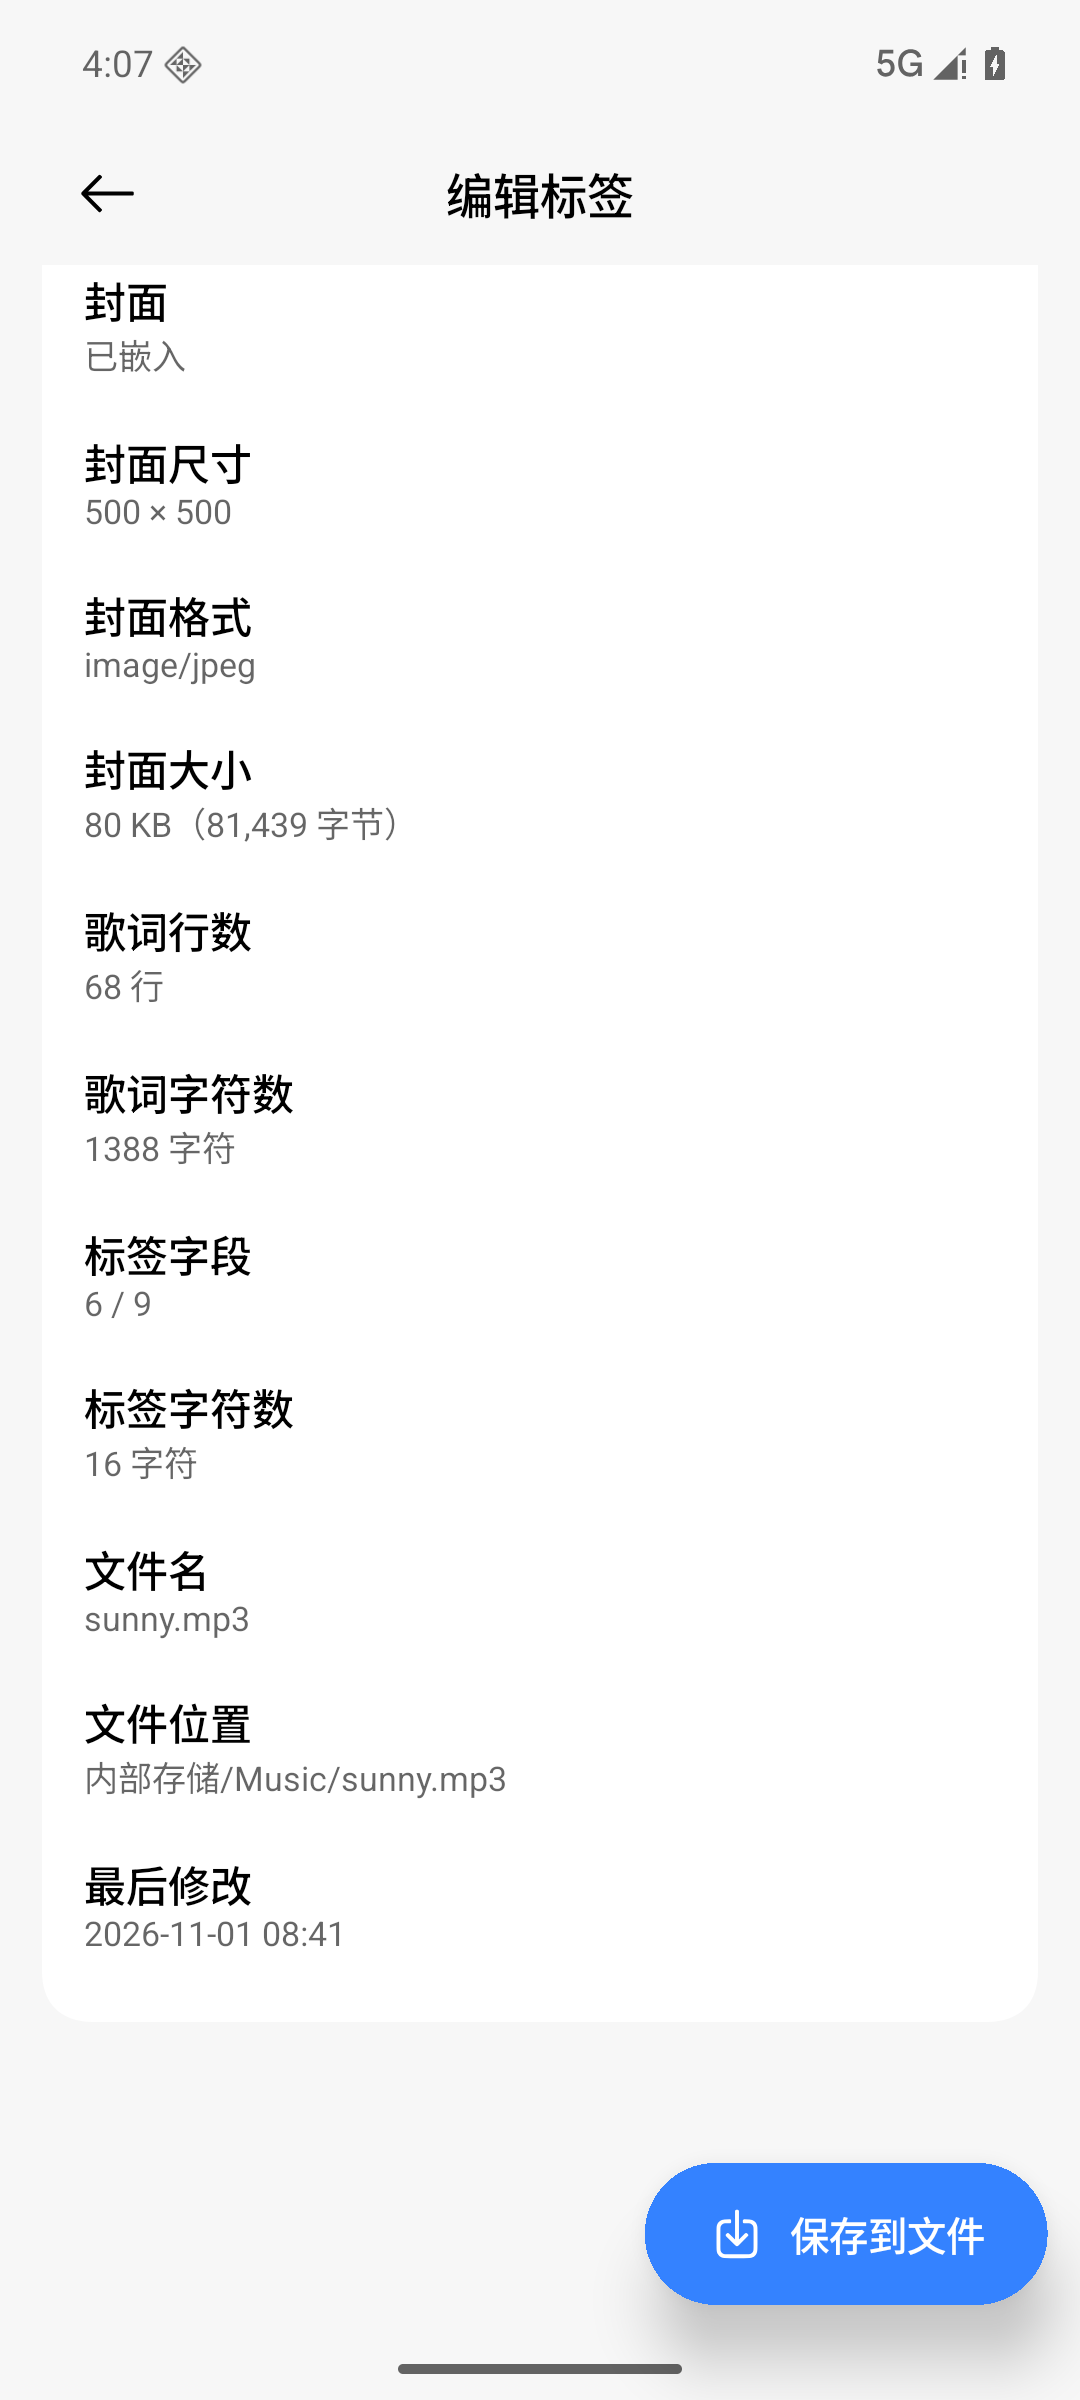
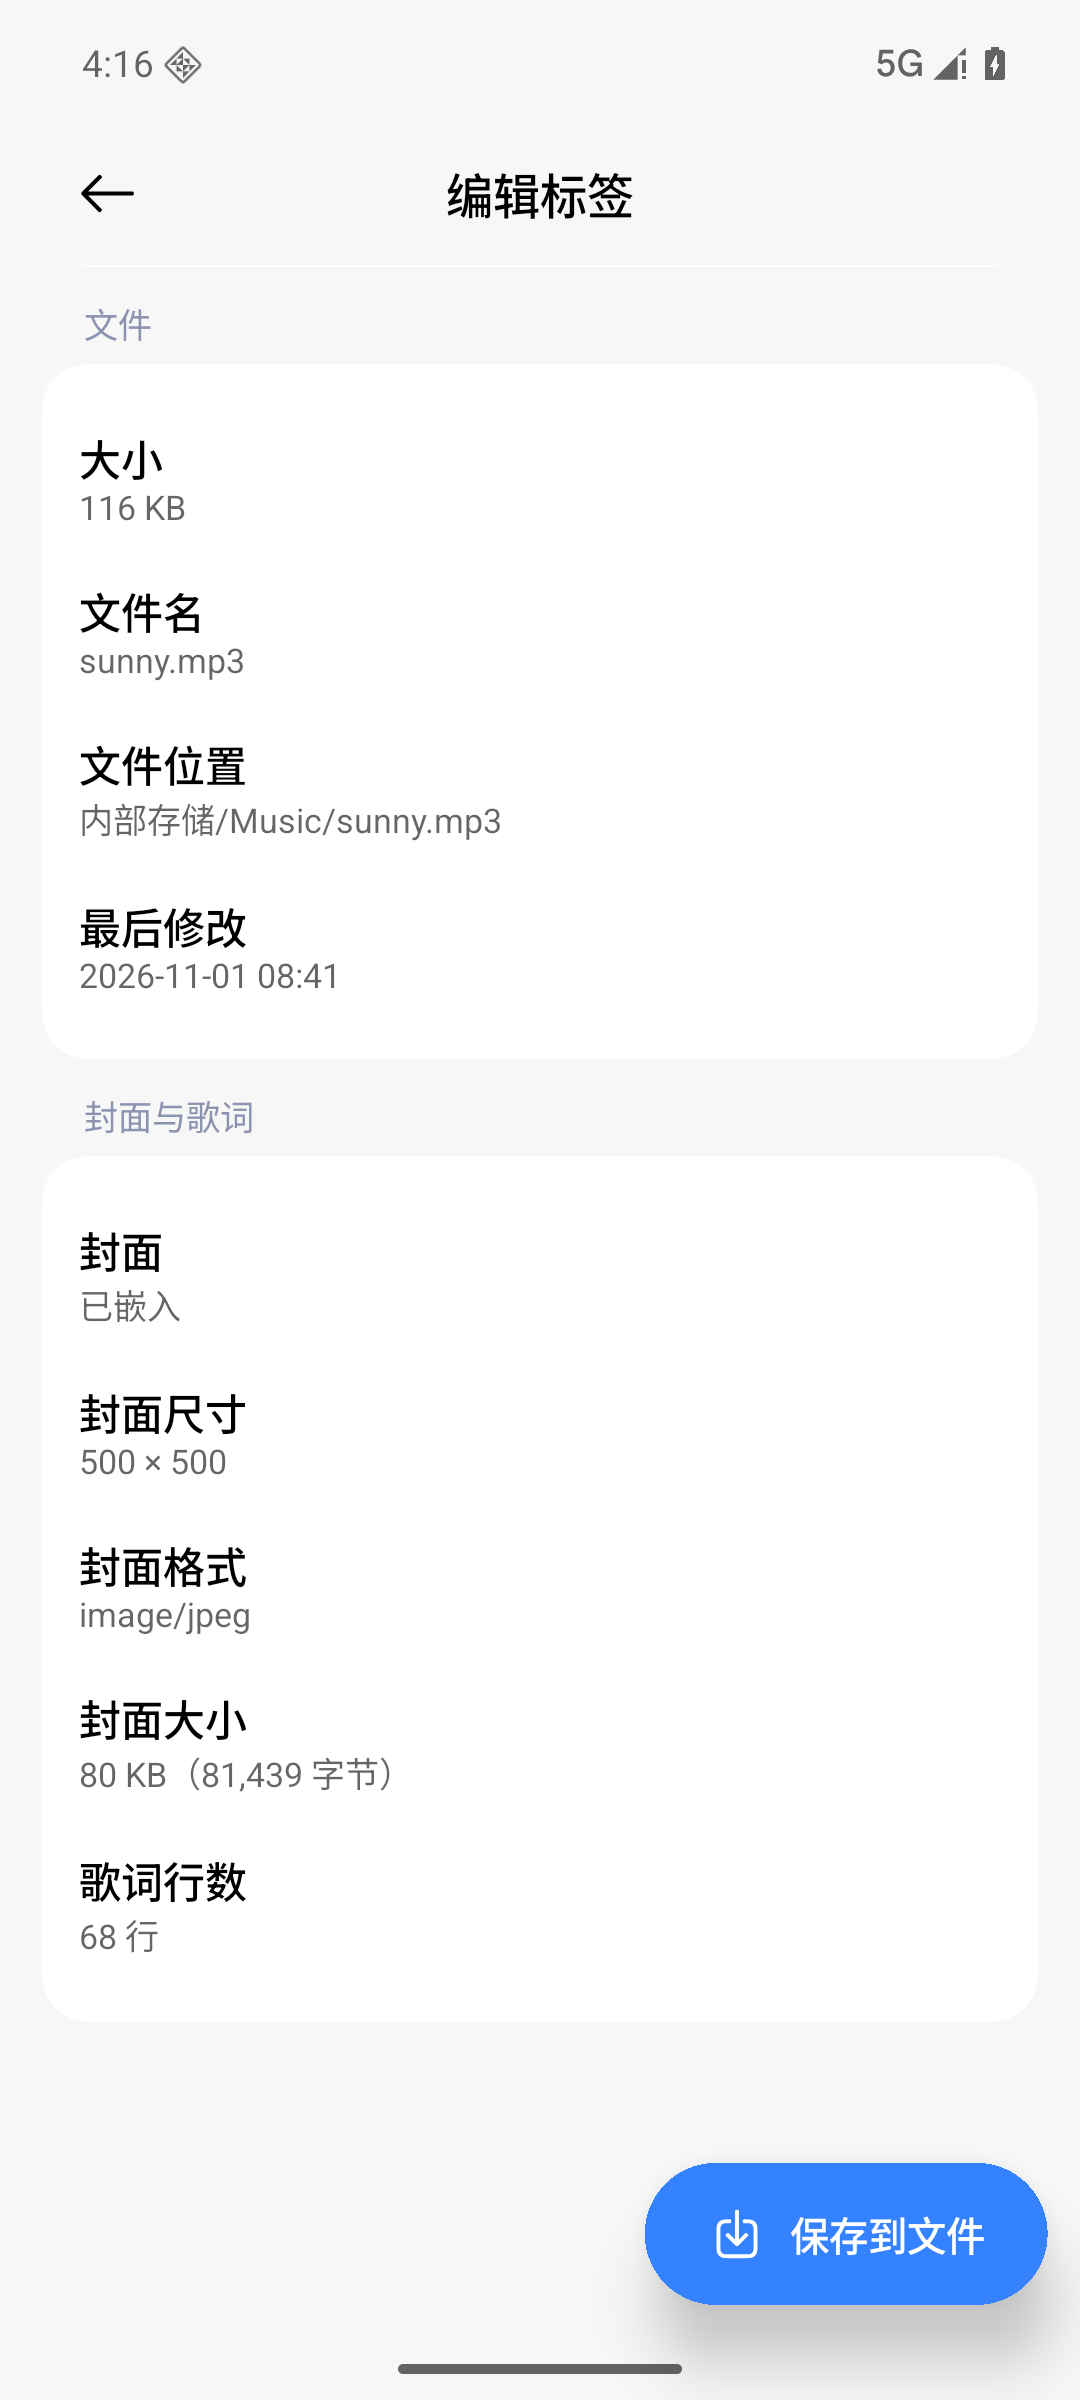
v1.2.3：打开匹配即自动搜索、文件信息精选分组、修复播放按钮误入编辑页
- openSearch 后自动以当前关键词搜索，无需手动点搜索
- 文件信息改为音频参数/文件/封面与歌词三组，保留 16 项有用数据
- 播放 chooser 排除 MainActivity，外部播放器直接打开
- 版本 1.2.3 / versionCode 6

diff --git a/app/src/main/java/com/musictag/app/ui/editor/EditorScreen.kt b/app/src/main/java/com/musictag/app/ui/editor/EditorScreen.kt
@@ -1,4 +1,4 @@
-package com.musictag.app.ui.editor
+package com.musictag.app.ui.editor
 
 import android.graphics.Bitmap
 import android.net.Uri
@@ -325,70 +325,44 @@ fun EditorScreen(
                             }
 
                             else -> item(key = "fileinfo") {
-                                EditorTabCard {
-                                    InfoRow("格式", track.formatName ?: "未知")
-                                    InfoRow("扩展名", track.displayName.substringAfterLast('.', "").uppercase().ifBlank { "未知" })
-                                    InfoRow("时长", Formats.duration(track.durationMs))
-                                    InfoRow("时长（毫秒）", Formats.durationMillis(track.durationMs))
-                                    InfoRow("大小", Formats.fileSize(track.sizeBytes))
-                                    InfoRow("大小（字节）", Formats.fileSizeExact(track.sizeBytes))
-                                    InfoRow("比特率", track.bitrateKbps?.let { "$it kbps" } ?: "未知")
-                                    InfoRow("采样率", track.sampleRateHz?.let { "$it Hz" } ?: "未知")
-                                    InfoRow("声道", track.channels?.let { "$it 声道" } ?: "未知")
-                                    InfoRow("位深", track.bitDepth?.let { "$it bit" } ?: "未知")
-                                    InfoRow("编码", track.codecName ?: track.codecMime ?: "未知")
-                                    InfoRow("MIME 类型", track.mimeType ?: "未知")
-                                    InfoRow("封面", if (state.artwork != null) "已嵌入" else "无")
-                                    InfoRow(
-                                        "封面尺寸",
-                                        if (track.artworkWidth != null && track.artworkHeight != null) {
-                                            "${track.artworkWidth} × ${track.artworkHeight}"
-                                        } else {
-                                            "未知"
-                                        },
-                                    )
-                                    InfoRow("封面格式", track.artworkMime ?: "未知")
-                                    InfoRow(
-                                        "封面大小",
-                                        track.artworkBytes?.let {
-                                            "${Formats.fileSize(it.toLong())}（${Formats.fileSizeExact(it.toLong())}）"
-                                        } ?: "未知",
-                                    )
-                                    InfoRow("歌词行数", "${state.fields.lyrics.lineSequence().count { it.isNotBlank() }} 行")
-                                    InfoRow("歌词字符数", "${state.fields.lyrics.length} 字符")
-                                    InfoRow(
-                                        "标签字段",
-                                        "${listOf(
-                                            state.fields.title,
-                                            state.fields.artist,
-                                            state.fields.album,
-                                            state.fields.albumArtist,
-                                            state.fields.year,
-                                            state.fields.trackNumber,
-                                            state.fields.discNumber,
-                                            state.fields.genre,
-                                            state.fields.comment,
-                                        ).count { it.isNotBlank() }} / 9",
-                                    )
-                                    InfoRow(
-                                        "标签字符数",
-                                        "${
-                                            listOf(
-                                                state.fields.title,
-                                                state.fields.artist,
-                                                state.fields.album,
-                                                state.fields.albumArtist,
-                                                state.fields.year,
-                                                state.fields.trackNumber,
-                                                state.fields.discNumber,
-                                                state.fields.genre,
-                                                state.fields.comment,
-                                            ).sumOf { it.length }
-                                        } 字符",
-                                    )
-                                    InfoRow("文件名", track.displayName)
-                                    InfoRow("文件位置", track.location ?: "未知")
-                                    InfoRow("最后修改", Formats.dateTime(track.lastModified))
+                                Column(
+                                    modifier = Modifier.fillMaxWidth(),
+                                    verticalArrangement = Arrangement.spacedBy(12.dp),
+                                ) {
+                                    EditorSection(title = "音频参数") {
+                                        InfoRow("格式", track.formatName ?: "未知")
+                                        InfoRow("时长", Formats.duration(track.durationMs))
+                                        InfoRow("比特率", track.bitrateKbps?.let { "$it kbps" } ?: "未知")
+                                        InfoRow("采样率", track.sampleRateHz?.let { "$it Hz" } ?: "未知")
+                                        InfoRow("声道", track.channels?.let { "$it 声道" } ?: "未知")
+                                        InfoRow("位深", track.bitDepth?.let { "$it bit" } ?: "未知")
+                                        InfoRow("编码", track.codecName ?: track.codecMime ?: "未知")
+                                    }
+                                    EditorSection(title = "文件") {
+                                        InfoRow("大小", Formats.fileSize(track.sizeBytes))
+                                        InfoRow("文件名", track.displayName)
+                                        InfoRow("文件位置", track.location ?: "未知")
+                                        InfoRow("最后修改", Formats.dateTime(track.lastModified))
+                                    }
+                                    EditorSection(title = "封面与歌词") {
+                                        InfoRow("封面", if (state.artwork != null) "已嵌入" else "无")
+                                        InfoRow(
+                                            "封面尺寸",
+                                            if (track.artworkWidth != null && track.artworkHeight != null) {
+                                                "${track.artworkWidth} × ${track.artworkHeight}"
+                                            } else {
+                                                "未知"
+                                            },
+                                        )
+                                        InfoRow("封面格式", track.artworkMime ?: "未知")
+                                        InfoRow(
+                                            "封面大小",
+                                            track.artworkBytes?.let {
+                                                "${Formats.fileSize(it.toLong())}（${Formats.fileSizeExact(it.toLong())}）"
+                                            } ?: "未知",
+                                        )
+                                        InfoRow("歌词行数", "${state.fields.lyrics.lineSequence().count { it.isNotBlank() }} 行")
+                                    }
                                 }
                             }
                         }

diff --git a/app/src/main/java/com/musictag/app/ui/MusicTagApp.kt b/app/src/main/java/com/musictag/app/ui/MusicTagApp.kt
@@ -1,6 +1,7 @@
 package com.musictag.app.ui
 
 import android.content.ActivityNotFoundException
+import android.content.ComponentName
 import android.content.Intent
 import android.net.Uri
 import androidx.activity.compose.rememberLauncherForActivityResult
@@ -39,6 +40,7 @@ import androidx.lifecycle.viewmodel.compose.viewModel
 import androidx.lifecycle.viewmodel.initializer
 import androidx.lifecycle.viewmodel.viewModelFactory
 import com.musictag.app.AppContainer
+import com.musictag.app.MainActivity
 import com.musictag.app.data.model.TrackItem
 import com.musictag.app.ui.components.MiuixOverflowMenu
 import com.musictag.app.ui.editor.EditorScreen
@@ -102,7 +104,14 @@ fun MusicTagApp(
             addFlags(Intent.FLAG_GRANT_READ_URI_PERMISSION)
         }
         try {
-            context.startActivity(Intent.createChooser(viewIntent, "选择打开方式"))
+            val chooser = Intent.createChooser(viewIntent, "选择打开方式").apply {
+                // Never offer 音签 itself: ACTION_VIEW would just reopen this editor.
+                putExtra(
+                    Intent.EXTRA_EXCLUDE_COMPONENTS,
+                    arrayOf(ComponentName(context, MainActivity::class.java)),
+                )
+            }
+            context.startActivity(chooser)
         } catch (_: ActivityNotFoundException) {
             scope.launch { snackbarHostState.showSnackbar("没有找到可以播放该音频的应用") }
         }

diff --git a/app/src/main/java/com/musictag/app/ui/editor/EditorViewModel.kt b/app/src/main/java/com/musictag/app/ui/editor/EditorViewModel.kt
@@ -237,6 +237,11 @@ class EditorViewModel(private val container: AppContainer) : ViewModel() {
                 ),
             )
         }
+        // Opening the match sheet starts a search immediately with the prefilled
+        // keyword, so the user does not have to tap the search button.
+        if (_state.value.search.keyword.isNotBlank()) {
+            search()
+        }
     }
 
     fun closeSearch() {

diff --git a/docs/RELEASE_NOTES-v1.2.3.md b/docs/RELEASE_NOTES-v1.2.3.md
@@ -1,0 +1,39 @@
+# 音签 MusicTagger v1.2.3
+
+体验修复版本：**打开匹配即自动搜索、文件信息精选、播放按钮修复**。
+
+## 下载
+
+- `MusicTagger-v1.2.3.apk`（R8 压缩 + 资源裁剪，约 **1.5 MB**）
[1 lines of base64/hex data omitted]
+- 系统要求：Android 8.0（API 26）及以上；动态取色需 Android 12+
+
+## 更新内容
+
+- **打开即搜索**：点击右下角圆形搜索 FAB（或封面卡片的匹配入口）后，自动用当前
+  「歌曲名 / 歌手」关键词发起搜索并直接展示结果，无需再手动点「搜索」。
+  仍可修改关键词后手动重新搜索，或切换数据源自动重搜。
+- **文件信息更聚焦**：去掉扩展名、毫秒、精确字节、MIME、标签字段统计等冗余项，
+  按三组呈现，既精简又有细节：
+  - 音频参数：格式、时长、比特率、采样率、声道、位深、编码
+  - 文件：大小、文件名、文件位置、最后修改
+  - 封面与歌词：封面、封面尺寸、封面格式、封面大小、歌词行数
+- **播放按钮修复**：曲库卡片的播放按钮不再把「音签」自己放进打开方式候选，
+  避免 ACTION_VIEW 默认落到本应用而跳进编辑页；现在会直接调起外部播放器
+  （或用系统选择器选择其它应用）。
+
+## 验证
+
+- release APK 在 API 36 模拟器安装：搜索 FAB 打开后自动出现结果；
+  播放按钮直接打开 YouTube Music；文件信息三组字段显示正常。
+- 154 个 `:core` 单元测试保持通过；APK 体积仍约 1.5 MB。
+
+## 已知限制
+
+- 位深/编码等由系统 MediaExtractor 提供，个别容器可能返回“未知”。
+- Spotify 源未接入（OAuth + 无歌词接口）。
+- release 目前使用 debug 签名，便于直接安装。
+
+## 开源
+
+Apache License 2.0。项目地址：<https://github.com/Kastorice/MusicTagger>

diff --git a/docs/TEST-REPORT.md b/docs/TEST-REPORT.md
@@ -230,11 +230,22 @@ MIUI UI 专项验证（均为真机/模拟器截图确认）：
 - release APK 在 API 36 模拟器验证三个 Tab、搜索 FAB、文件信息字段正常；154 个单测通过。
 - 版本 `versionCode 5` / `versionName 1.2.2`。
 
+### 第十一轮 v1.2.3（2026-11-15）
+
+- 打开在线匹配面板即自动搜索：`EditorViewModel.openSearch()` 在显示面板后若关键词非空直接调用
+  `search()`；模拟器验证打开 FAB 后无需再点「搜索」即可看到结果。
+- 文件信息重新分组（音频参数 / 文件 / 封面与歌词），删除扩展名、毫秒、精确字节、MIME、
+  标签字段统计等低价值项，保留 16 项有用数据，界面更清爽。
+- 修复播放按钮误入编辑页：`ACTION_VIEW` 的 chooser 通过 `EXTRA_EXCLUDE_COMPONENTS`
+  排除 `MainActivity`，不会再列出「音签」；模拟器点击播放直接打开 YouTube Music。
+- release APK 仍为 1,572,049 字节（约 1.5 MB）；154 个单测通过。
+- 版本 `versionCode 6` / `versionName 1.2.3`。
+
 ## 3. 构建产物
 
 - `app/build/outputs/apk/release/app-release.apk`（约 **1.5 MB**，R8 压缩、资源裁剪，debug 签名）
 - `app/build/outputs/apk/debug/app-debug.apk`（约 11 MB，供开发调试）
-- `dist/MusicTagger-v1.2.2.apk`（交付副本，SHA-256 见 `dist/SHA256.txt`）
+- `dist/MusicTagger-v1.2.3.apk`（交付副本，SHA-256 见 `dist/SHA256.txt`）
 
 ## 4. 复现步骤
 

diff --git a/README.md b/README.md
@@ -122,7 +122,7 @@ powershell -NoProfile -ExecutionPolicy Bypass -File tools\build.ps1 -Tasks ":cor
 APK 输出：调试版 `app/build/outputs/apk/debug/app-debug.apk`，发布版
 `app/build/outputs/apk/release/app-release.apk`（约 1.5 MB，R8 压缩、资源裁剪、仅保留
 中英资源；当前 release 使用 debug 签名以便直接安装，正式上架前应替换为发布签名）。
-交付副本：`dist/MusicTagger-v1.2.2.apk`，SHA-256 见 `dist/SHA256.txt`。
+交付副本：`dist/MusicTagger-v1.2.3.apk`，SHA-256 见 `dist/SHA256.txt`。
 
 ## 测试
 
